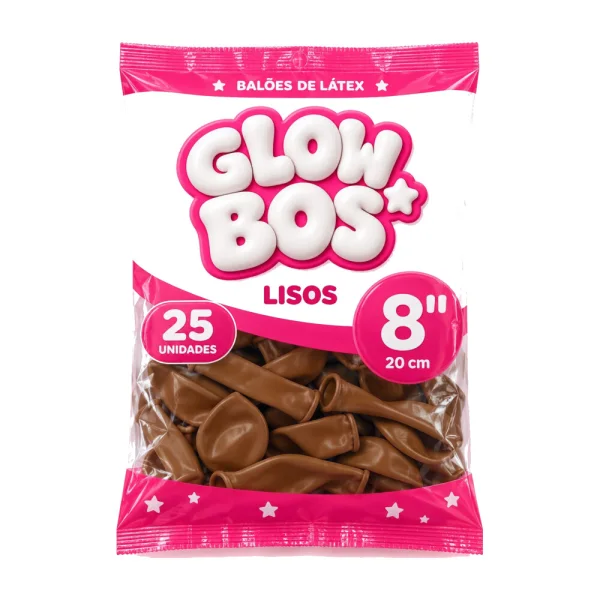
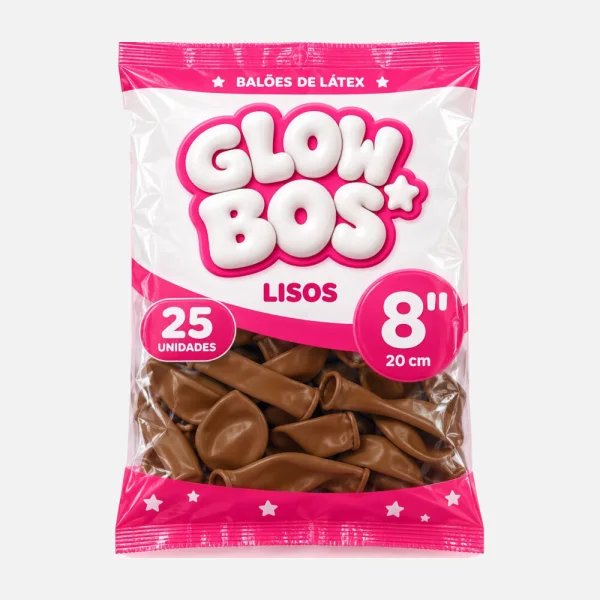
Embalagens com fundo #F2F2F2 e plástico inteiro

Changed region(s): [[0.18, 0.06, 0.81, 0.93]]

diff --git a/glowbos/tema/paginas/faq.html b/glowbos/tema/paginas/faq.html
@@ -1,7 +1,7 @@
 <h2>Vocês entregam no mesmo dia?</h2><p>Sim, em São Paulo e na Grande São Paulo. Veja o horário de corte em <a href="/entrega-e-frete/">Entrega e frete</a>.</p>
 <h2>Os balões vêm cheios?</h2><p>Os pacotes e kits vêm vazios, pra você encher em casa. A linha premium pode ser entregue montada: peça um orçamento.</p>
 <h2>Preciso de gás hélio?</h2><p>Não. Arco e pacotes são enchidos com ar. Hélio só para balão que flutua.</p>
-<h2>Posso escolher as cores?</h2><p>Pode. No <a href="/#pacotes">Monte seu pacote</a> você escolhe o tamanho e a sequência: 50 balões são 2 cores, 75 são 3, 100 são 4 e 150 são 5.</p>
+<h2>Posso escolher as cores?</h2><p>Pode. No <a href="/#pacotes">Monte seu pacote</a> você escolhe o tamanho e a sequência: 50 balões são 2 cores, 75 são 3, 100 são 4 e 125 são 5.</p>
 <h2>Qual o tamanho dos balões?</h2><p>Os pacotes são de 8 polegadas. Os kits de arco misturam 16, 12, 9 e 5 polegadas.</p>
 <h2>Quantos balões preciso pra um arco?</h2><p>Um arco de parede médio usa por volta de 60 a 100 balões. Na dúvida, chame a gente.</p>
 <h2>Posso trocar?</h2><p>Sim. Veja <a href="/trocas-e-devolucoes/">Trocas e devoluções</a>.</p>

diff --git a/glowbos/tema/glowbos/app.css b/glowbos/tema/glowbos/app.css
@@ -86,3 +86,4 @@
 .gb-qcores{grid-template-columns:repeat(auto-fill,minmax(190px,1fr))}
 .gb-prev-emb{background:#FDEAF1}.gb-prev-emb img{width:100%!important;height:100%!important;object-fit:contain;padding:4%}
 .gb-prev-emb{background:#fff!important}
+.gb-prev-emb{background:#F2F2F2!important}

diff --git a/glowbos/tema/glowbos/seo.php b/glowbos/tema/glowbos/seo.php
@@ -1,0 +1,161 @@
+<?php
+// SEO e GEO da Glowbos (16/10/2026): descrição própria por página, endereço oficial (canonical),
+// caminho de navegação, FAQ e dados da loja e do frete no formato que Google e IAs leem.
+
+// Descrição de cada categoria e página. A home e os produtos ficam com a regra de functions.php.
+function glowbos_seo_desc() {
+	$cats = array(
+		'arcos'            => 'Arcos de balões pra montar em casa: escolha o arco pela foto, ajuste o tamanho e receba a lista de balões. Chega hoje em SP e Grande SP.',
+		'kits-de-arco'     => 'Kits de arco de balões com 60 a 120 peças, balões de 16, 12, 9 e 5 polegadas e fita. Você escolhe as cores. Chega hoje em SP e Grande SP.',
+		'pacotes'          => 'Pacotes de 50 a 125 balões de 8 polegadas, com cores à escolha ou combinações prontas, a partir de R$ 19,87. Chega hoje em SP e Grande SP.',
+		'pacotes-fechados' => 'Pacotes fechados de balões, uma cor por pacote, de 5 a 16 polegadas, a partir de R$ 9,99. Entrega no mesmo dia em São Paulo e Grande SP.',
+		'candy-colors'     => 'Balões candy em tons pastel pra chá de bebê, chá revelação e festa infantil, de 50 a 100 balões com cores à escolha. Chega hoje em SP.',
+		'cromados'         => 'Balões metalizados e cromados pra dar brilho ao arco e à festa. Entrega no mesmo dia em São Paulo e Grande SP.',
+		'numeros'          => 'Número metalizado gigante de 0 a 9 sobre coluna de balões, no estilo da festa. Sob encomenda, com entrega em São Paulo.',
+		'bubbles'          => 'Balão bubble transparente personalizado com nome ou frase e balõezinhos dentro. Sob encomenda, com entrega em São Paulo.',
+		'acessorios'       => 'Fita para arco e adesivo dupla face pra montar arco de balões em casa. Chega hoje em SP e Grande SP.',
+	);
+	$pags = array(
+		'loja'                    => 'Loja Glowbos: balões, kits de arco, números e pacotes de festa. Em SP e Grande SP, pedido pago até 12h chega hoje. Envio pra todo o Brasil.',
+		'entrega-e-frete'         => 'Entrega no mesmo dia em São Paulo e Grande SP pra pedido pago até 12h, de motoboy. Outras regiões pelos Correios, com prazo e valor pelo CEP.',
+		'trocas-e-devolucoes'     => 'Trocas e devoluções na Glowbos: 7 dias pra se arrepender da compra e troca de balão com defeito pelo WhatsApp.',
+		'perguntas-frequentes'    => 'Dúvidas sobre balões, cores, tamanhos, gás hélio, quantos balões vão num arco, entrega no mesmo dia e trocas na Glowbos.',
+		'como-montar'             => 'Passo a passo pra montar um arco de balões desconstruído em casa: quantos balões usar, como encher, prender na fita e fixar na parede.',
+		'sobre'                   => 'A Glowbos é a loja própria da Mayara Festas, nota 4,9 na Shopee com mais de 121 mil vendidos. Balões e kits de festa com entrega no mesmo dia em SP.',
+		'contato'                 => 'Fale com a Glowbos pelo WhatsApp (11) 94523-1106 ou pelo e-mail contato@glowbos.com.br.',
+		'acompanhar-pedido'       => 'Acompanhe o seu pedido da Glowbos com o número do pedido e o e-mail da compra.',
+		'politica-de-privacidade' => 'Como a Glowbos usa e protege os seus dados.',
+		'termos-de-uso'           => 'Termos de uso da loja Glowbos.',
+	);
+	if ( function_exists( 'is_shop' ) && is_shop() ) {
+		return $pags['loja'];
+	}
+	if ( function_exists( 'is_product_category' ) && is_product_category() ) {
+		$t = get_queried_object();
+		return $cats[ $t->slug ] ?? ( $t->description ? wp_strip_all_tags( $t->description ) : null );
+	}
+	if ( is_page() ) {
+		return $pags[ get_post_field( 'post_name', get_queried_object_id() ) ] ?? null;
+	}
+	return null;
+}
+
+// Endereço oficial da página onde o WordPress não põe sozinho (home, loja, categorias).
+add_action( 'wp_head', function () {
+	$url = null;
+	if ( is_front_page() ) {
+		$url = home_url( '/' );
+	} elseif ( function_exists( 'is_shop' ) && is_shop() ) {
+		$url = get_permalink( wc_get_page_id( 'shop' ) );
+	} elseif ( function_exists( 'is_product_category' ) && is_product_category() ) {
+		$url = get_term_link( get_queried_object() );
+	}
+	if ( $url && ! is_wp_error( $url ) ) {
+		$p = (int) get_query_var( 'paged' );
+		if ( $p > 1 ) {
+			$url = trailingslashit( $url ) . 'page/' . $p . '/';
+		}
+		echo '<link rel="canonical" href="' . esc_url( $url ) . '">' . "\n";
+	}
+}, 4 );
+
+function glowbos_seo_ld( $dados ) {
+	echo '<script type="application/ld+json">' . wp_json_encode( array( '@context' => 'https://schema.org' ) + $dados, JSON_UNESCAPED_UNICODE | JSON_UNESCAPED_SLASHES ) . '</script>' . "\n";
+}
+
+// Caminho de navegação (Início > Categoria > Produto) pro Google mostrar no resultado.
+add_action( 'wp_head', function () {
+	$itens = array( array( 'Início', home_url( '/' ) ) );
+	if ( is_singular( 'product' ) ) {
+		$cats = get_the_terms( get_the_ID(), 'product_cat' );
+		if ( $cats && ! is_wp_error( $cats ) ) {
+			$c       = $cats[0];
+			$itens[] = array( $c->name, get_term_link( $c ) );
+		}
+		$itens[] = array( get_the_title(), get_permalink() );
+	} elseif ( function_exists( 'is_product_category' ) && is_product_category() ) {
+		$t       = get_queried_object();
+		$itens[] = array( 'Loja', get_permalink( wc_get_page_id( 'shop' ) ) );
+		$itens[] = array( $t->name, get_term_link( $t ) );
+	} elseif ( is_page() && ! is_front_page() ) {
+		$itens[] = array( get_the_title(), get_permalink() );
+	} else {
+		return;
+	}
+	$lista = array();
+	foreach ( $itens as $i => $it ) {
+		$lista[] = array( '@type' => 'ListItem', 'position' => $i + 1, 'name' => $it[0], 'item' => $it[1] );
+	}
+	glowbos_seo_ld( array( '@type' => 'BreadcrumbList', 'itemListElement' => $lista ) );
+}, 6 );
+
+// FAQ marcada como FAQ: cada <h2> da página é a pergunta e o parágrafo seguinte é a resposta.
+add_action( 'wp_head', function () {
+	if ( ! is_page( 'perguntas-frequentes' ) ) {
+		return;
+	}
+	$html = (string) get_post_field( 'post_content', get_queried_object_id() );
+	preg_match_all( '#<h2[^>]*>(.*?)</h2>\s*<p[^>]*>(.*?)</p>#s', $html, $m, PREG_SET_ORDER );
+	if ( ! $m ) {
+		return;
+	}
+	$q = array();
+	foreach ( $m as $par ) {
+		$q[] = array(
+			'@type'          => 'Question',
+			'name'           => wp_strip_all_tags( $par[1] ),
+			'acceptedAnswer' => array( '@type' => 'Answer', 'text' => trim( wp_strip_all_tags( $par[2] ) ) ),
+		);
+	}
+	glowbos_seo_ld( array( '@type' => 'FAQPage', 'mainEntity' => $q ) );
+}, 6 );
+
+// Produto: frete do mesmo dia na Grande SP e política de troca, que o Google pede no Shopping.
+add_filter( 'woocommerce_structured_data_product', function ( $m ) {
+	if ( empty( $m['offers'] ) || ! is_array( $m['offers'] ) ) {
+		return $m;
+	}
+	foreach ( $m['offers'] as &$o ) {
+		$o['seller']                  = array( '@type' => 'Organization', 'name' => 'Glowbos' );
+		$o['hasMerchantReturnPolicy'] = array(
+			'@type'                => 'MerchantReturnPolicy',
+			'applicableCountry'    => 'BR',
+			'returnPolicyCategory' => 'https://schema.org/MerchantReturnFiniteReturnWindow',
+			'merchantReturnDays'   => 7,
+			'returnMethod'         => 'https://schema.org/ReturnByMail',
+		);
+		$o['shippingDetails']         = array(
+			'@type'               => 'OfferShippingDetails',
+			'shippingRate'        => array( '@type' => 'MonetaryAmount', 'value' => 10, 'currency' => 'BRL' ),
+			'shippingDestination' => array(
+				'@type'             => 'DefinedRegion',
+				'addressCountry'    => 'BR',
+				'postalCodeRange'   => array( 'postalCodeBegin' => '01000-000', 'postalCodeEnd' => '09999-999' ),
+			),
+			'deliveryTime'        => array(
+				'@type'        => 'ShippingDeliveryTime',
+				'handlingTime' => array( '@type' => 'QuantitativeValue', 'minValue' => 0, 'maxValue' => 0, 'unitCode' => 'DAY' ),
+				'transitTime'  => array( '@type' => 'QuantitativeValue', 'minValue' => 0, 'maxValue' => 1, 'unitCode' => 'DAY' ),
+			),
+		);
+	}
+	return $m;
+} );
+
+// GEO: quem é a loja, de quem é, onde fica e como falar, pra IA citar com o nome certo.
+add_filter( 'glowbos_dados_loja', function ( $loja ) {
+	return $loja + array(
+		'legalName'    => 'Mayara Festas e Decorações LTDA',
+		'taxID'        => '45.147.944/0001-24',
+		'address'      => array( '@type' => 'PostalAddress', 'addressLocality' => 'Santo André', 'addressRegion' => 'SP', 'addressCountry' => 'BR' ),
+		'email'        => 'contato@glowbos.com.br',
+		'telephone'    => '+55 11 94523-1106',
+		'contactPoint' => array( '@type' => 'ContactPoint', 'contactType' => 'customer service', 'telephone' => '+55 11 94523-1106', 'email' => 'contato@glowbos.com.br', 'availableLanguage' => 'pt-BR' ),
+		'sameAs'       => array( 'https://www.instagram.com/glowbosbaloes/', 'https://shopee.com.br/shop/414535277' ),
+	);
+} );
+
+// robots.txt aponta o mapa do site e o resumo pra IAs.
+add_filter( 'robots_txt', function ( $txt ) {
+	return rtrim( $txt ) . "\n\nSitemap: " . home_url( '/wp-sitemap.xml' ) . "\n# Resumo da loja para IAs: " . home_url( '/llms.txt' ) . "\n";
+}, 99 );

diff --git a/glowbos/tema/glowbos/functions.php b/glowbos/tema/glowbos/functions.php
@@ -182,6 +182,9 @@ add_action( 'wp_head', function () {
 			$img = get_the_post_thumbnail_url( null, 'large' );
 		}
 		$url = get_permalink();
+	} elseif ( function_exists( 'glowbos_seo_desc' ) && ( $d = glowbos_seo_desc() ) ) {
+		$desc   = $d;
+		$titulo = wp_get_document_title();
 	}
 	printf( '<meta name="description" content="%s">' . "\n", esc_attr( $desc ) );
 	printf( '<meta property="og:type" content="website">' . "\n" );
@@ -216,7 +219,7 @@ add_action( 'wp_head', function () {
 	$dados = array(
 		'@context' => 'https://schema.org',
 		'@graph'   => array(
-			array(
+			apply_filters( 'glowbos_dados_loja', array(
 				'@type'       => 'OnlineStore',
 				'@id'         => $casa . '#loja',
 				'name'        => 'Glowbos',
@@ -226,7 +229,7 @@ add_action( 'wp_head', function () {
 				'description' => 'Loja online de balões e kits de festa: pacotes de balões, kits de arco, números gigantes e linha premium. Entrega no mesmo dia em São Paulo e Grande SP e envio para todo o Brasil.',
 				'areaServed'  => array( 'São Paulo', 'Grande São Paulo', 'Brasil' ),
 				'currenciesAccepted' => 'BRL',
-			),
+			) ),
 			array(
 				'@type'      => 'WebSite',
 				'@id'        => $casa . '#site',
@@ -512,7 +515,7 @@ function glowbos_app_config( $pid ) {
 }
 add_action( 'wp_enqueue_scripts', function () {
 	if ( function_exists( 'is_product' ) && is_product() && glowbos_app_config( get_queried_object_id() ) ) {
-		$v = wp_get_theme()->get( 'Version' ) . '.14';
+		$v = wp_get_theme()->get( 'Version' ) . '.15';
 		wp_enqueue_style( 'glowbos-app', get_template_directory_uri() . '/app.css', array( 'glowbos' ), $v );
 		wp_enqueue_script( 'glowbos-app', get_template_directory_uri() . '/app.js', array(), $v, true );
 	}
@@ -1147,3 +1150,6 @@ body.gb-desceu .wpp svg{width:30px;height:30px}
 <script>(function(){var b=document.body,f=function(){b.classList.toggle('gb-desceu',scrollY>120)};addEventListener('scroll',f,{passive:true});f();})();</script>
 	<?php
 }, 99 );
+
+// SEO por página e GEO (dados pra Google e IAs).
+require_once __DIR__ . '/seo.php';
